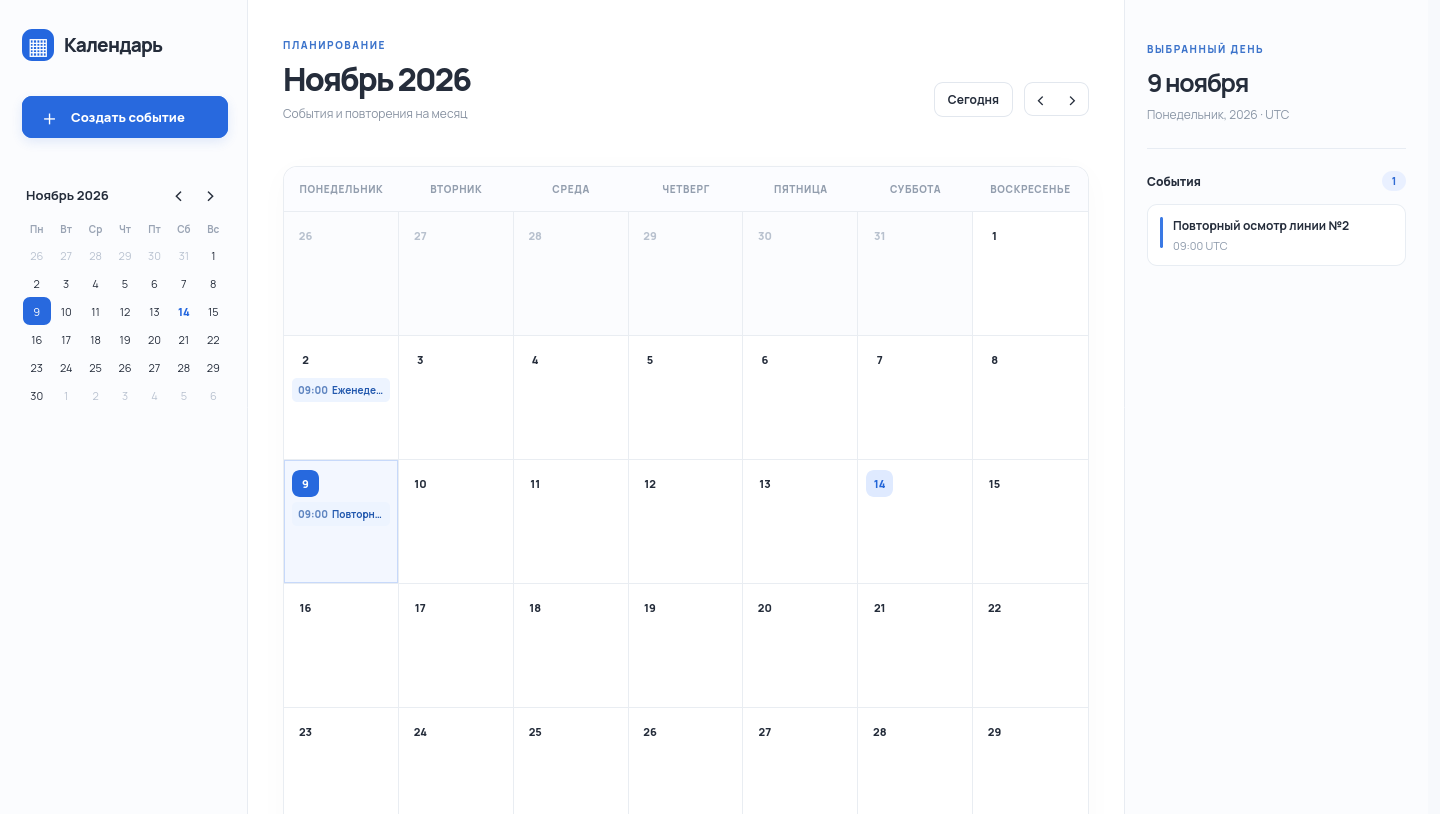
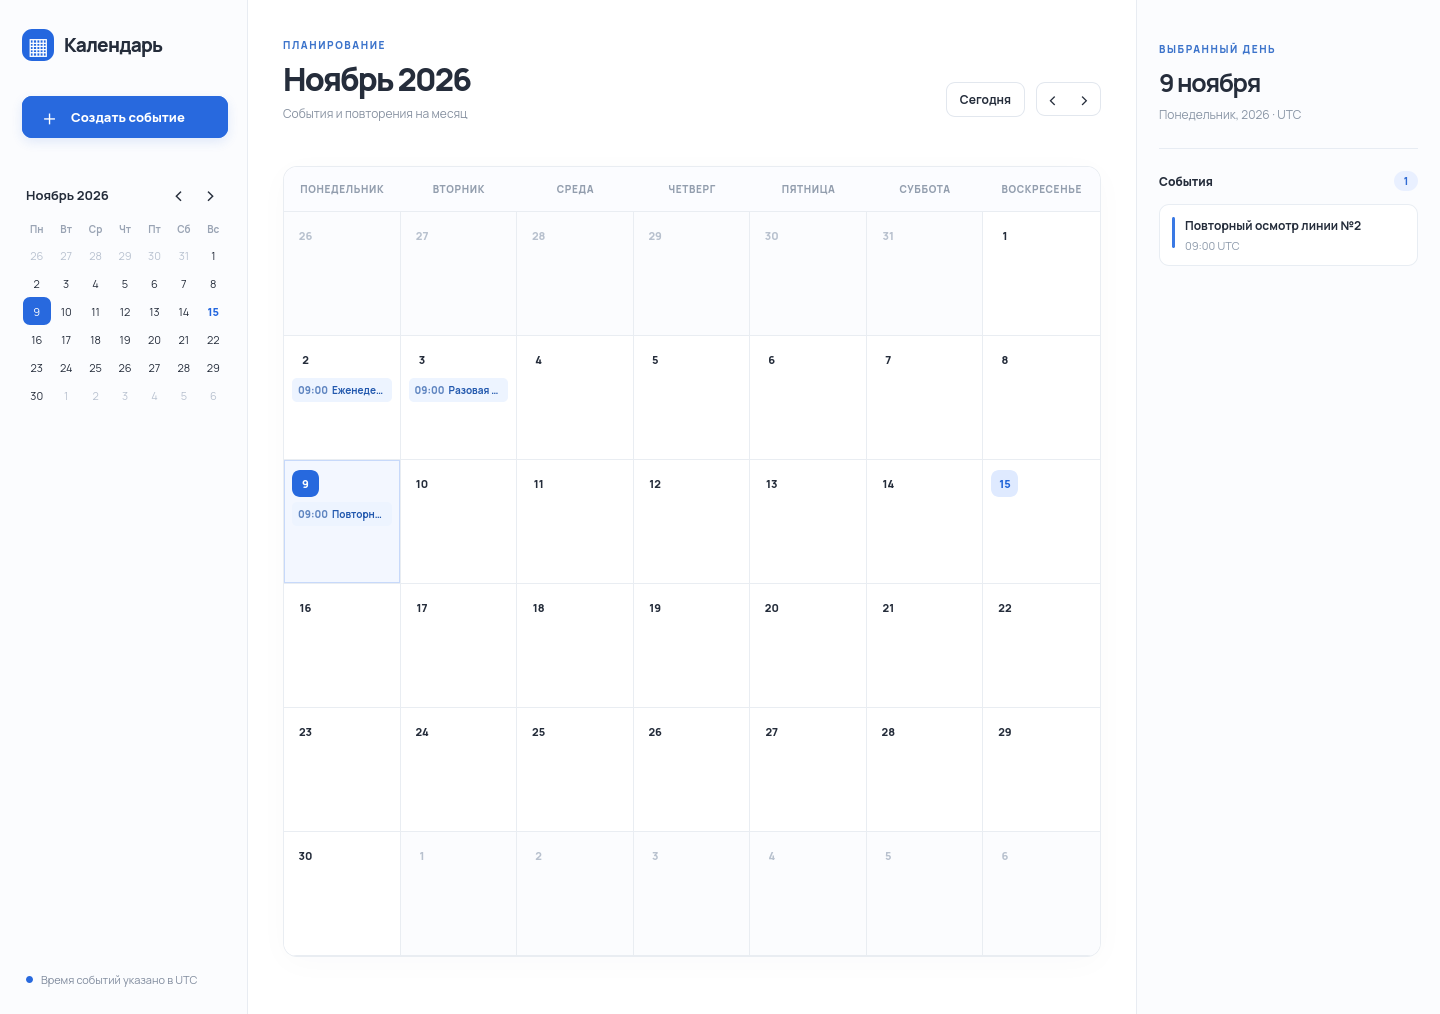
Finalize calendar submission and fix local method handling

diff --git a/config/urls.py b/config/urls.py
@@ -24,21 +24,21 @@ from django.contrib.auth import views as auth_views
 from django.views.decorators.csrf import csrf_exempt
 
 
-def calendar_view(view, *, write=False):
+def calendar_view(view):
     if settings.CALENDAR_PROFILE in ('private', 'production'):
         return login_required(view)
-    return csrf_exempt(view) if write else view
+    return csrf_exempt(view)
 
 
 urlpatterns = [
     path('', calendar_view(views.calendar_home), name='calendar_home'),
     path('admin/', admin.site.urls),
     path('events/range/', calendar_view(views.events_range), name='events_range'),
-    path('add/', calendar_view(views.add_event, write=True), name='add_event'),
+    path('add/', calendar_view(views.add_event), name='add_event'),
     path('events/<str:year>/<str:month>/<str:day>/', calendar_view(views.events_on_date), name='events_on_date'),
-    path('update/<int:id>/<str:year>/<str:month>/<str:day>/', calendar_view(views.update_event, write=True), name='update_event'),
-    path('remove/<int:id>/<str:year>/<str:month>/<str:day>/', calendar_view(views.remove_event, write=True), name='remove_event'),
-    path('remove-next/<int:id>/<str:year>/<str:month>/<str:day>/', calendar_view(views.remove_next, write=True), name='remove_next'),
+    path('update/<int:id>/<str:year>/<str:month>/<str:day>/', calendar_view(views.update_event), name='update_event'),
+    path('remove/<int:id>/<str:year>/<str:month>/<str:day>/', calendar_view(views.remove_event), name='remove_event'),
+    path('remove-next/<int:id>/<str:year>/<str:month>/<str:day>/', calendar_view(views.remove_next), name='remove_next'),
 ]
 if settings.CALENDAR_PROFILE in ('private', 'production'):
     urlpatterns += [

diff --git a/events/tests.py b/events/tests.py
@@ -23,6 +23,13 @@ class CalendarApiTests(TestCase):
     def post_json(self, path, data):
         return self.client.post(path, data=json.dumps(data), content_type="application/json")
 
+    def test_local_wrong_method_returns_405_with_csrf_checks(self):
+        if settings.CALENDAR_PROFILE != 'local':
+            self.skipTest('local API contract')
+        csrf_client = Client(enforce_csrf_checks=True)
+        self.assertEqual(csrf_client.post('/events/2026/11/9/').status_code, 405)
+        self.assertEqual(csrf_client.post('/events/range/?start=2026-11-09&end=2026-11-09').status_code, 405)
+
     def test_calendar_page(self):
         response = self.client.get("/")
         self.assertEqual(response.status_code, 200)

diff --git a/docs/submission-checklist.md b/docs/submission-checklist.md
@@ -1,0 +1,44 @@
+# Проверка перед сдачей Денису
+
+Дата: 15 ноября 2026. Исходный `origin/main`: `99bf6b68986e3c35dac5437a9bf9c2c20aa8dbe4`. В `recurring-calendar-api-review` перед созданием ветки рабочее дерево было чистым (`docs/integration-and-demo`, `b3194e4`); ветка `chore/submission-review` создана от указанного SHA. В другой рабочей папке `recurring-calendar-api` на ветке `chore/production-readiness` находилась неотслеживаемая `qa/`; она не изменялась. В review-копии есть локальная `db.local.sqlite3`; она не изменялась. Изменения этой проверки не закоммичены.
+
+## Окружение и повторение
+
+Python 3.14.10, Django 5.2.19, Firefox, Selenium 4.52.0; PostgreSQL 17 в отдельном `docker compose` на `127.0.0.1:5433`. Из корня review-копии:
+
+```bash
+.venv/bin/python manage.py test events
+CALENDAR_PROFILE=private .venv/bin/python manage.py test events
+
+docker compose up -d --wait postgres
+export CALENDAR_PROFILE=production SECRET_KEY=production-test-secret-key-1234567890
+export ALLOWED_HOSTS=localhost,127.0.0.1 CSRF_TRUSTED_ORIGINS=http://localhost:8000
+export POSTGRES_DB=calendar POSTGRES_USER=calendar POSTGRES_PASSWORD=local-test-only
+export POSTGRES_HOST=127.0.0.1 POSTGRES_PORT=5433 CALENDAR_HTTPS_ENABLED=0
+.venv/bin/python manage.py collectstatic --noinput
+.venv/bin/python manage.py test events
+```
+
+Для независимого HTTP-прогона по README использовались `CALENDAR_DB=/tmp/.../calendar.sqlite3`, `migrate` и `runserver --noreload localhost:8000`. Временный сервер остановлен, база удалена. Полный браузерный сценарий выполнен копией `scripts/browser_check.py` с выводом кадров в `/tmp`, чтобы не менять существующие `screenshots/`. Новый `docs/demo-calendar.png` снят на временных данных.
+
+## Проверенное поведение
+
+- HTTP: все пять исходных маршрутов, недельная серия, одиночное событие, переименование 9 ноября, отмена 16 ноября, включительное обрезание с 23 ноября, соседние даты, сохранность после перезапуска. Создание — `201` с `id`, чтение — `200` с массивом или `[]`, изменения — `204` с пустым телом; неверные данные/дата — `400`, невидимое повторение — `404`, неверный метод — `405`. Ответы сверены с OpenAPI.
+- Firefox: существующий сценарий создания, переименования, удаления одной даты, обрезания, перезагрузки и узкого экрана прошёл. Новый кадр 1440×1014 показывает все недели ноября, включая 30 ноября.
+- Тесты: `local` — 18, успешно 14, пропущено 4; `private` — 18, успешно 12, пропущено 6; `production` на настоящем PostgreSQL — 18, успешно 15, пропущено 3. Проверки двух пользователей, владельца, CSRF и конкурентных изменений выполнены в соответствующих профилях. Пропуски вызваны условиями профиля тестов.
+- `manage.py check` — без замечаний; `makemigrations --check --dry-run` — новых миграций нет; OpenAPI 3.1 прошёл `openapi-spec-validator`; `git diff --check` — чисто. Относительные ссылки README и демо существуют; локальный Markdown-рендер открыт в Firefox, изображение загрузилось. Точный GitHub-рендер проверить из среды не удалось.
+- Аудит 15 ноября 2026: `pip-audit 2.10.1` в отдельном временном окружении проверил фактически установленные пакеты из `.venv` (в том числе Django 5.2.19, psycopg/psycopg-binary 3.2.12, gunicorn 23.0.0, whitenoise 6.11.0, Selenium 4.52.0). Источник аудита был доступен; известных уязвимостей не найдено. Обновления зависимостей не требуются по этому результату.
+
+## Исправления и ограничения
+
+Локальный POST на маршрут чтения с действующей CSRF-проверкой возвращал `403` вместо заявленного `405`. Для локального профиля убрано CSRF-препятствие перед проверкой метода; добавлен точечный регрессионный тест для двух маршрутов чтения. Для production-тестов предварительно нужен `collectstatic`, поскольку профиль использует manifest-хранилище статики. Исходный скриншот не показывал нижнюю неделю ноября; заменён полным кадром. Схема README сокращена, альтернативные базы и связь сущностей пояснены.
+
+На целевом хостинге ещё нужно проверить TLS, DNS, секреты, reverse proxy, `ALLOWED_HOSTS`, `CSRF_TRUSTED_ORIGINS`, сборку статики, мониторинг, резервное копирование и восстановление. Удалённый CI для этих незакоммиченных изменений не запускался. Коммит, push и merge оставлены для последующего ревью.
+
+## Показ на 3 минуты
+
+1. **0:00–0:35:** открыть README, показать быстрый запуск, OpenAPI, демо и схему; объяснить один ID серии и выбор базы по профилю.
+2. **0:35–1:15:** создать недельный осмотр 2 ноября 09:00 UTC; показать 2, 9, 16, 23 и 30 ноября.
+3. **1:15–1:55:** переименовать 9 ноября, отменить 16 ноября; показать неизменность соседних дат.
+4. **1:55–2:30:** обрезать серию с 23 ноября; показать пустые 23 и 30 ноября и сохранённые 2 и 9 ноября.
+5. **2:30–3:00:** перезагрузить страницу, показать сохранность результата и указать на ответы API `201/200/204` в OpenAPI.

diff --git a/README.md b/README.md
@@ -2,7 +2,11 @@
 
 Календарь и API повторяющихся событий на Django. Local и private используют SQLite; production — PostgreSQL.
 
+[Быстрый запуск](#быстрый-запуск) · [OpenAPI](docs/openapi.yaml) · [Демо на 3 минуты](docs/demo.md)
+
 ![Календарь после демонстрационного сценария](docs/demo-calendar.png)
+
+*Итог демо: 2 ноября — исходное событие, 9 ноября — переименованное; 16 ноября отменено, 23 и 30 ноября удалены обрезанием серии.*
 
 ## Быстрый запуск
 
@@ -23,15 +27,15 @@ API доступен по `http://localhost:8000`. Миграции создаю
 
 ```mermaid
 flowchart LR
-    B[Браузер] --> D[Django: страницы и API]
-    C[API-клиент] --> D
-    D --> S[EventsSeries: начало, период, владелец, дата обрезания]
-    D --> E[EventException: имя или отмена на дату]
-    S --> L[(SQLite: local/private)]
-    E --> L
-    S --> P[(PostgreSQL: production)]
-    E --> P
+    C[Браузер / API] --> D[Django]
+    D --> S[EventsSeries]
+    S --> E[EventException]
+    S --> DB[(База данных)]
+    DB --> L[SQLite: local / private]
+    DB --> P[PostgreSQL: production]
 ```
+
+`EventsSeries` задаёт правило повтора; `EventException` хранит переименование или отмену конкретной даты этой серии. SQLite и PostgreSQL — альтернативы, выбираемые профилем запуска.
 
 Например, создание недельного осмотра 2 ноября 2026 года сохраняет **одну** `EventsSeries` с `period=7` и одним ID. Повторы вычисляются при чтении, поэтому записи на каждый понедельник заранее не нужны. Переименование 9 ноября и отмена 16 ноября добавляют по одному `EventException` для той же серии. Обрезание с 23 ноября записывает `cutoff_date=2026-11-23` в `EventsSeries`: 23 ноября и все следующие даты не показываются. Соседние ранние повторы сохраняются.
 
